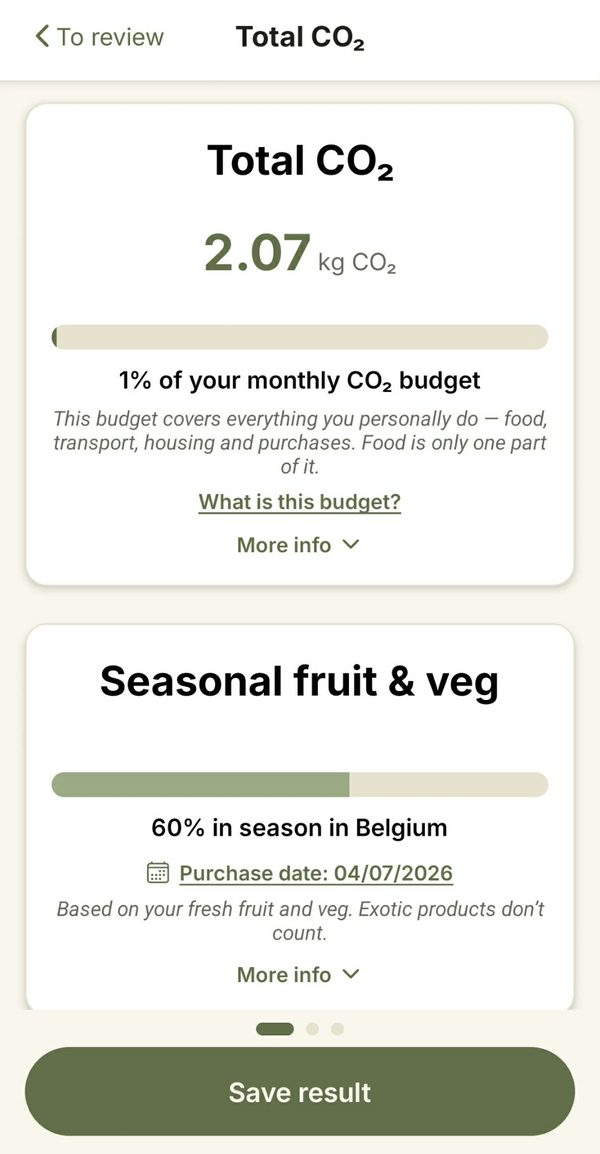
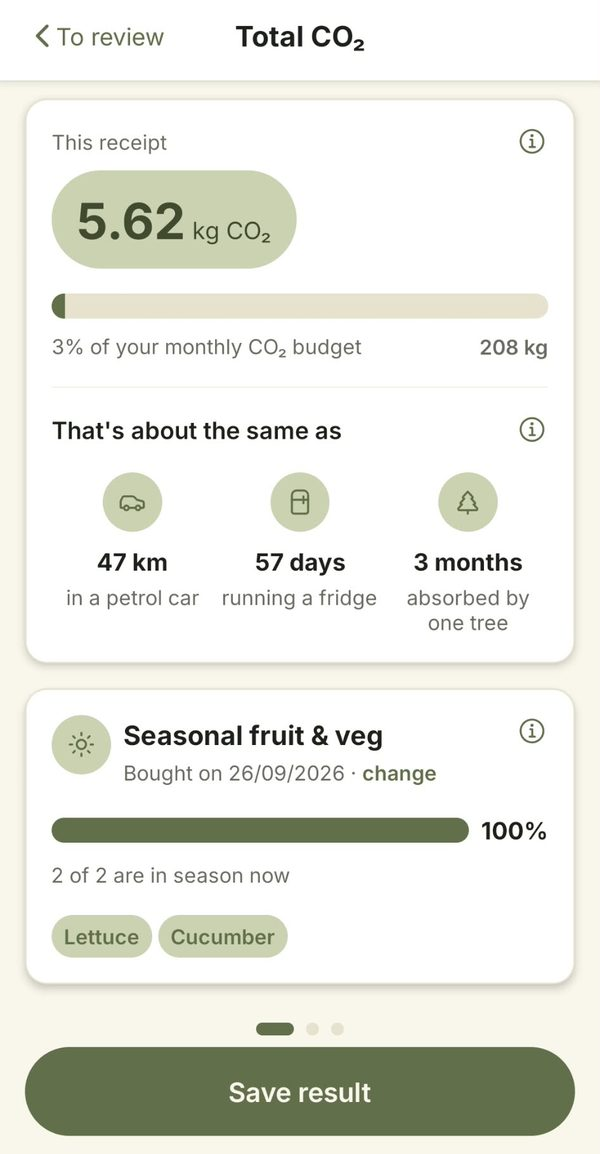
Home: new results screenshot and step 4 food groups (EN/NL/FR)

Changed region(s): [[0.03, 0.0936, 0.96, 0.8735], [0.87, 0.0936, 0.9, 0.156]]

diff --git a/fr/index.html b/fr/index.html
@@ -18,7 +18,7 @@
 <meta property="og:image:height" content="630">
 <meta property="og:locale" content="fr_BE">
 <meta name="twitter:card" content="summary_large_image">
-<link rel="stylesheet" href="../style.css?v=36896c66">
+<link rel="stylesheet" href="../style.css?v=f3843e09">
 </head>
 <body data-page="home" data-lang="fr">
 <main class="home">
@@ -49,9 +49,14 @@
     <p>ClimateCart associe chaque ligne de votre ticket à une catégorie d'aliments. Vous voyez ce qui a été reconnu et corrigez ce qui demande votre attention.</p>
   </li>
   <li>
-    <img src="../assets/screenshots/fr/web/3-results.jpg" width="600" height="1154" alt="Écran des résultats avec le CO₂ total et la part du budget carbone mensuel" loading="lazy">
+    <img src="../assets/screenshots/fr/web/3-results.jpg" width="600" height="1154" alt="Écran des résultats avec le CO₂ total, la part du budget CO₂ mensuel, des comparaisons avec une voiture, un frigo et un arbre, et la carte de saison" loading="lazy">
     <h3>3. Découvrez votre empreinte</h3>
-    <p>Vous obtenez le total en kg de CO₂, par produit et en part de votre budget CO₂ mensuel. Vous voyez aussi quelle part de vos fruits et légumes frais est de saison en Belgique, et ce que changerait un panier plus végétal.</p>
+    <p>Vous obtenez le total en kg de CO₂ et en part de votre budget CO₂ mensuel, comparé à un trajet en voiture, au fonctionnement d'un frigo et à ce qu'absorbe un arbre. Vous voyez aussi quelle part de vos fruits et légumes frais est de saison en Belgique.</p>
+  </li>
+  <li>
+    <img src="../assets/screenshots/fr/web/4-foodgroups.jpg" width="600" height="1154" alt="Écran des résultats par groupe alimentaire avec le bouton CO₂ | Carte thermique, l'alternative végétale et l'origine du CO₂ dans la chaîne" loading="lazy">
+    <h3>4. Voyez ce qui pèse le plus</h3>
+    <p>Vous voyez quels groupes d'aliments et quels produits pèsent le plus. Avec la carte thermique, vous comparez leur part de CO₂, d'eau et d'utilisation des terres. Vous voyez aussi où dans la chaîne le CO₂ est émis, et ce que changerait un panier plus végétal.</p>
   </li>
 </ol>
 <p>Créez un compte pour enregistrer vos tickets et suivre votre empreinte dans le temps.</p>

diff --git a/nl/index.html b/nl/index.html
@@ -18,7 +18,7 @@
 <meta property="og:image:height" content="630">
 <meta property="og:locale" content="nl_BE">
 <meta name="twitter:card" content="summary_large_image">
-<link rel="stylesheet" href="../style.css?v=36896c66">
+<link rel="stylesheet" href="../style.css?v=f3843e09">
 </head>
 <body data-page="home" data-lang="nl">
 <main class="home">
@@ -49,9 +49,14 @@
     <p>ClimateCart koppelt elke lijn op je kassabon aan een voedingscategorie. Je ziet wat herkend werd en past aan wat aandacht nodig heeft.</p>
   </li>
   <li>
-    <img src="../assets/screenshots/nl/web/3-results.jpg" width="600" height="1154" alt="Resultatenscherm met de totale CO₂ en het aandeel in je maandelijks CO₂-budget" loading="lazy">
+    <img src="../assets/screenshots/nl/web/3-results.jpg" width="600" height="1154" alt="Resultatenscherm met de totale CO₂, het aandeel in je maandelijks CO₂-budget, vergelijkingen met een auto, een koelkast en een boom, en de seizoenskaart" loading="lazy">
     <h3>3. Bekijk je voetafdruk</h3>
-    <p>Je krijgt het totaal in kg CO₂, per product en als deel van je maandelijks CO₂-budget. Je ziet ook hoeveel van je verse groenten en fruit in België in het seizoen is, en wat een meer plantaardige boodschappenmand zou uitmaken.</p>
+    <p>Je krijgt het totaal in kg CO₂ en als deel van je maandelijks CO₂-budget, vergeleken met autorijden, een koelkast en wat een boom opneemt. Je ziet ook hoeveel van je verse groenten en fruit in België in het seizoen is.</p>
+  </li>
+  <li>
+    <img src="../assets/screenshots/nl/web/4-foodgroups.jpg" width="600" height="1154" alt="Resultatenscherm per voedingsgroep met de schakelaar CO₂ | Heatmap, het plantaardig alternatief en waar in de keten de CO₂ ontstaat" loading="lazy">
+    <h3>4. Ontdek wat het zwaarst weegt</h3>
+    <p>Je ziet welke voedingsgroepen en producten het zwaarst wegen. Met de heatmap vergelijk je hun aandeel in CO₂, water en landgebruik. Je ziet ook waar in de keten de CO₂ ontstaat, en wat een meer plantaardige boodschappenmand zou uitmaken.</p>
   </li>
 </ol>
 <p>Maak een account aan om je kassabonnen te bewaren en je voetafdruk over de tijd te volgen.</p>

diff --git a/index.html b/index.html
@@ -18,7 +18,7 @@
 <meta property="og:image:height" content="630">
 <meta property="og:locale" content="en_GB">
 <meta name="twitter:card" content="summary_large_image">
-<link rel="stylesheet" href="style.css?v=36896c66">
+<link rel="stylesheet" href="style.css?v=f3843e09">
 </head>
 <body data-page="home" data-lang="en">
 <main class="home">
@@ -49,9 +49,14 @@
     <p>ClimateCart links each line on your receipt to a food category. You see what was matched and fix anything that needs attention.</p>
   </li>
   <li>
-    <img src="assets/screenshots/en/web/3-results.jpg" width="600" height="1154" alt="Results screen with total CO₂ and share of the monthly carbon budget" loading="lazy">
+    <img src="assets/screenshots/en/web/3-results.jpg" width="600" height="1154" alt="Results screen with total CO₂, share of the monthly carbon budget, comparisons with a car, a fridge and a tree, and the seasonal card" loading="lazy">
     <h3>3. See your footprint</h3>
-    <p>Get the total in kg CO₂, per product and as a share of your monthly carbon budget. See how much of your fresh fruit and veg is in season in Belgium, and how a more plant-based basket would compare.</p>
+    <p>Get the total in kg CO₂ and as a share of your monthly carbon budget, compared with driving, running a fridge and what a tree absorbs. See how much of your fresh fruit and veg is in season in Belgium.</p>
+  </li>
+  <li>
+    <img src="assets/screenshots/en/web/4-foodgroups.jpg" width="600" height="1154" alt="Results screen by food group with the CO₂ | Heatmap switch, the plant-based alternative and where in the chain the CO₂ comes from" loading="lazy">
+    <h3>4. See what weighs most</h3>
+    <p>See which food groups and products weigh most. Switch to the heatmap to compare their shares of CO₂, water and land use. See where in the chain the CO₂ is emitted, and how a more plant-based basket would compare.</p>
   </li>
 </ol>
 <p>Create an account to save your receipts and follow your footprint over time.</p>

diff --git a/style.css b/style.css
@@ -115,7 +115,7 @@ main.home { max-width: 960px; }
 .button.primary { background: var(--primary); color: #fff; }
 .small { font-size: 0.9rem; color: var(--muted); }
 
-.steps { list-style: none; padding: 0; display: grid; grid-template-columns: repeat(auto-fit, minmax(240px, 1fr)); gap: 2rem; }
+.steps { list-style: none; padding: 0; display: grid; grid-template-columns: repeat(auto-fit, minmax(200px, 1fr)); gap: 2rem; }
 .steps li { text-align: center; }
 .steps img { display: block; width: 100%; max-width: 260px; height: auto; margin: 0 auto 1rem; border: 1px solid var(--border); border-radius: 24px; box-shadow: 0 6px 20px rgba(0, 0, 0, 0.08); }
 

diff --git a/legal/en/index.html b/legal/en/index.html
@@ -9,7 +9,7 @@
 <link rel="alternate" hreflang="en" href="https://climatecart.app/legal/en/">
 <link rel="alternate" hreflang="nl" href="https://climatecart.app/legal/nl/">
 <link rel="alternate" hreflang="fr" href="https://climatecart.app/legal/fr/">
-<link rel="stylesheet" href="../../style.css?v=36896c66">
+<link rel="stylesheet" href="../../style.css?v=f3843e09">
 </head>
 <body data-page="legal" data-lang="en">
 <main>

diff --git a/legal/fr/index.html b/legal/fr/index.html
@@ -9,7 +9,7 @@
 <link rel="alternate" hreflang="en" href="https://climatecart.app/legal/en/">
 <link rel="alternate" hreflang="nl" href="https://climatecart.app/legal/nl/">
 <link rel="alternate" hreflang="fr" href="https://climatecart.app/legal/fr/">
-<link rel="stylesheet" href="../../style.css?v=36896c66">
+<link rel="stylesheet" href="../../style.css?v=f3843e09">
 </head>
 <body data-page="legal" data-lang="fr">
 <main>

diff --git a/legal/nl/index.html b/legal/nl/index.html
@@ -9,7 +9,7 @@
 <link rel="alternate" hreflang="en" href="https://climatecart.app/legal/en/">
 <link rel="alternate" hreflang="nl" href="https://climatecart.app/legal/nl/">
 <link rel="alternate" hreflang="fr" href="https://climatecart.app/legal/fr/">
-<link rel="stylesheet" href="../../style.css?v=36896c66">
+<link rel="stylesheet" href="../../style.css?v=f3843e09">
 </head>
 <body data-page="legal" data-lang="nl">
 <main>

diff --git a/mission/fr/index.html b/mission/fr/index.html
@@ -4,7 +4,7 @@
 <meta charset="utf-8">
 <meta name="viewport" content="width=device-width,initial-scale=1">
 <title>Notre mission — ClimateCart</title>
-<link rel="stylesheet" href="../../style.css?v=36896c66">
+<link rel="stylesheet" href="../../style.css?v=f3843e09">
 </head>
 <body data-page="mission" data-lang="fr">
 <main>

diff --git a/mission/en/index.html b/mission/en/index.html
@@ -4,7 +4,7 @@
 <meta charset="utf-8">
 <meta name="viewport" content="width=device-width,initial-scale=1">
 <title>Our Mission — ClimateCart</title>
-<link rel="stylesheet" href="../../style.css?v=36896c66">
+<link rel="stylesheet" href="../../style.css?v=f3843e09">
 </head>
 <body data-page="mission" data-lang="en">
 <main>

diff --git a/mission/nl/index.html b/mission/nl/index.html
@@ -4,7 +4,7 @@
 <meta charset="utf-8">
 <meta name="viewport" content="width=device-width,initial-scale=1">
 <title>Onze missie — ClimateCart</title>
-<link rel="stylesheet" href="../../style.css?v=36896c66">
+<link rel="stylesheet" href="../../style.css?v=f3843e09">
 </head>
 <body data-page="mission" data-lang="nl">
 <main>

diff --git a/privacy/index.html b/privacy/index.html
@@ -4,7 +4,7 @@
 <meta charset="utf-8">
 <meta name="viewport" content="width=device-width,initial-scale=1">
 <title>Privacy Policy — ClimateCart</title>
-<link rel="stylesheet" href="../style.css?v=36896c66">
+<link rel="stylesheet" href="../style.css?v=f3843e09">
 </head>
 <body data-page="privacy" data-lang="en">
 <main>

diff --git a/terms/index.html b/terms/index.html
@@ -4,7 +4,7 @@
 <meta charset="utf-8">
 <meta name="viewport" content="width=device-width,initial-scale=1">
 <title>Terms of Use — ClimateCart</title>
-<link rel="stylesheet" href="../style.css?v=36896c66">
+<link rel="stylesheet" href="../style.css?v=f3843e09">
 </head>
 <body data-page="terms" data-lang="en">
 <main>
